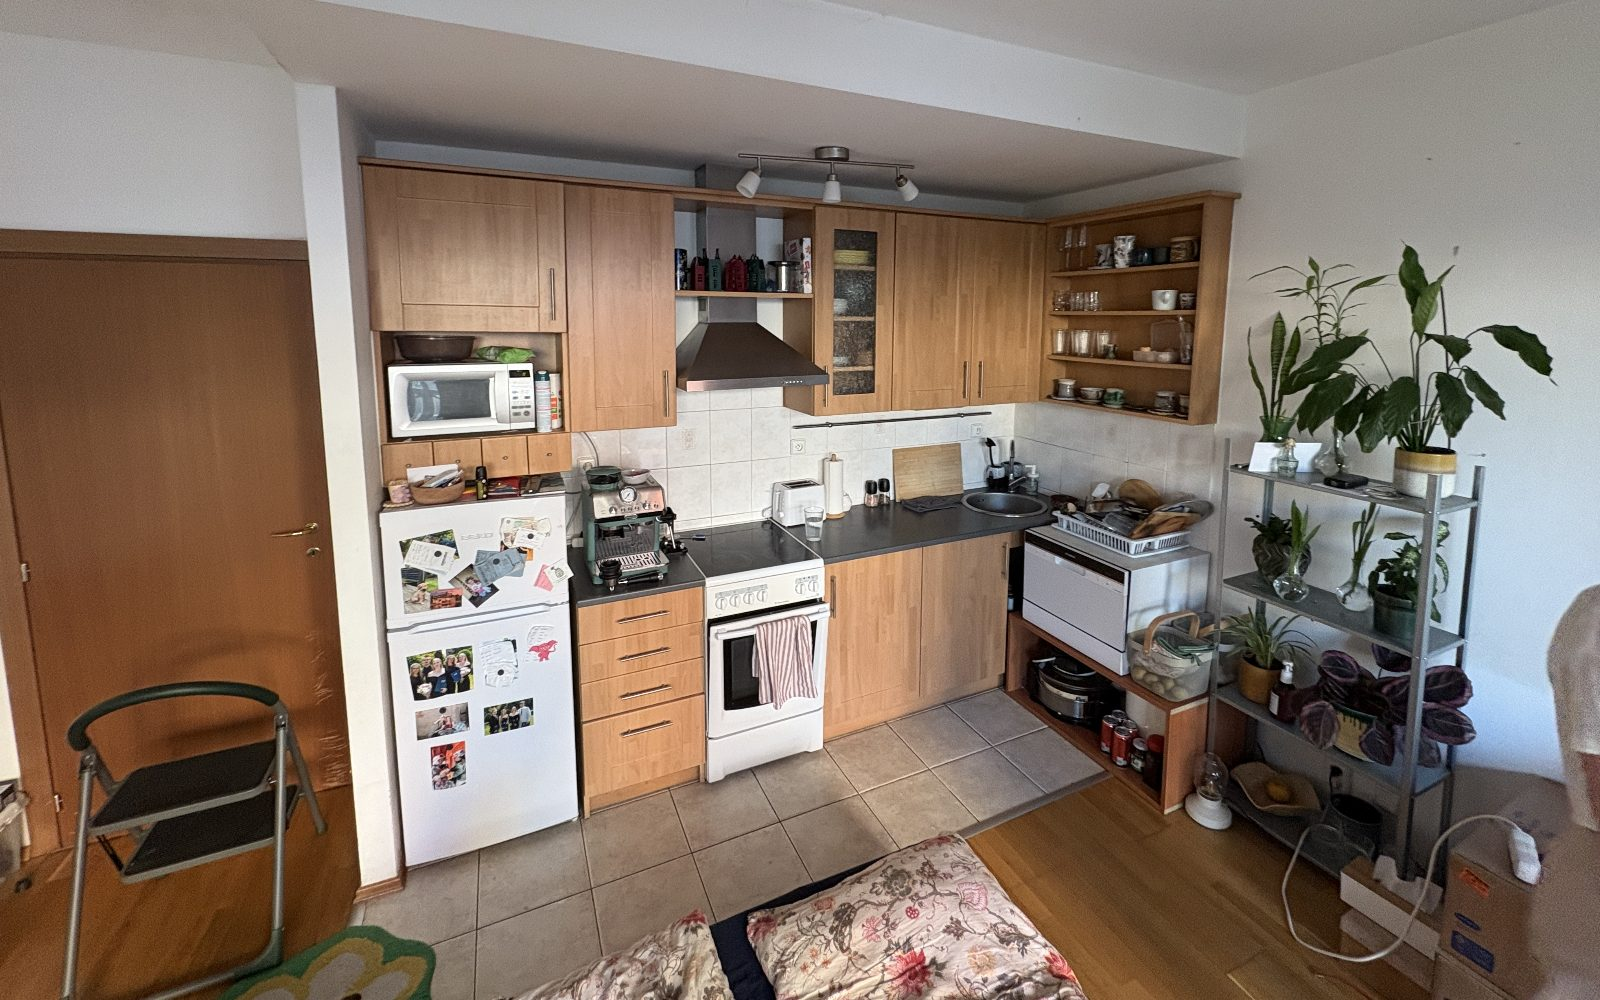
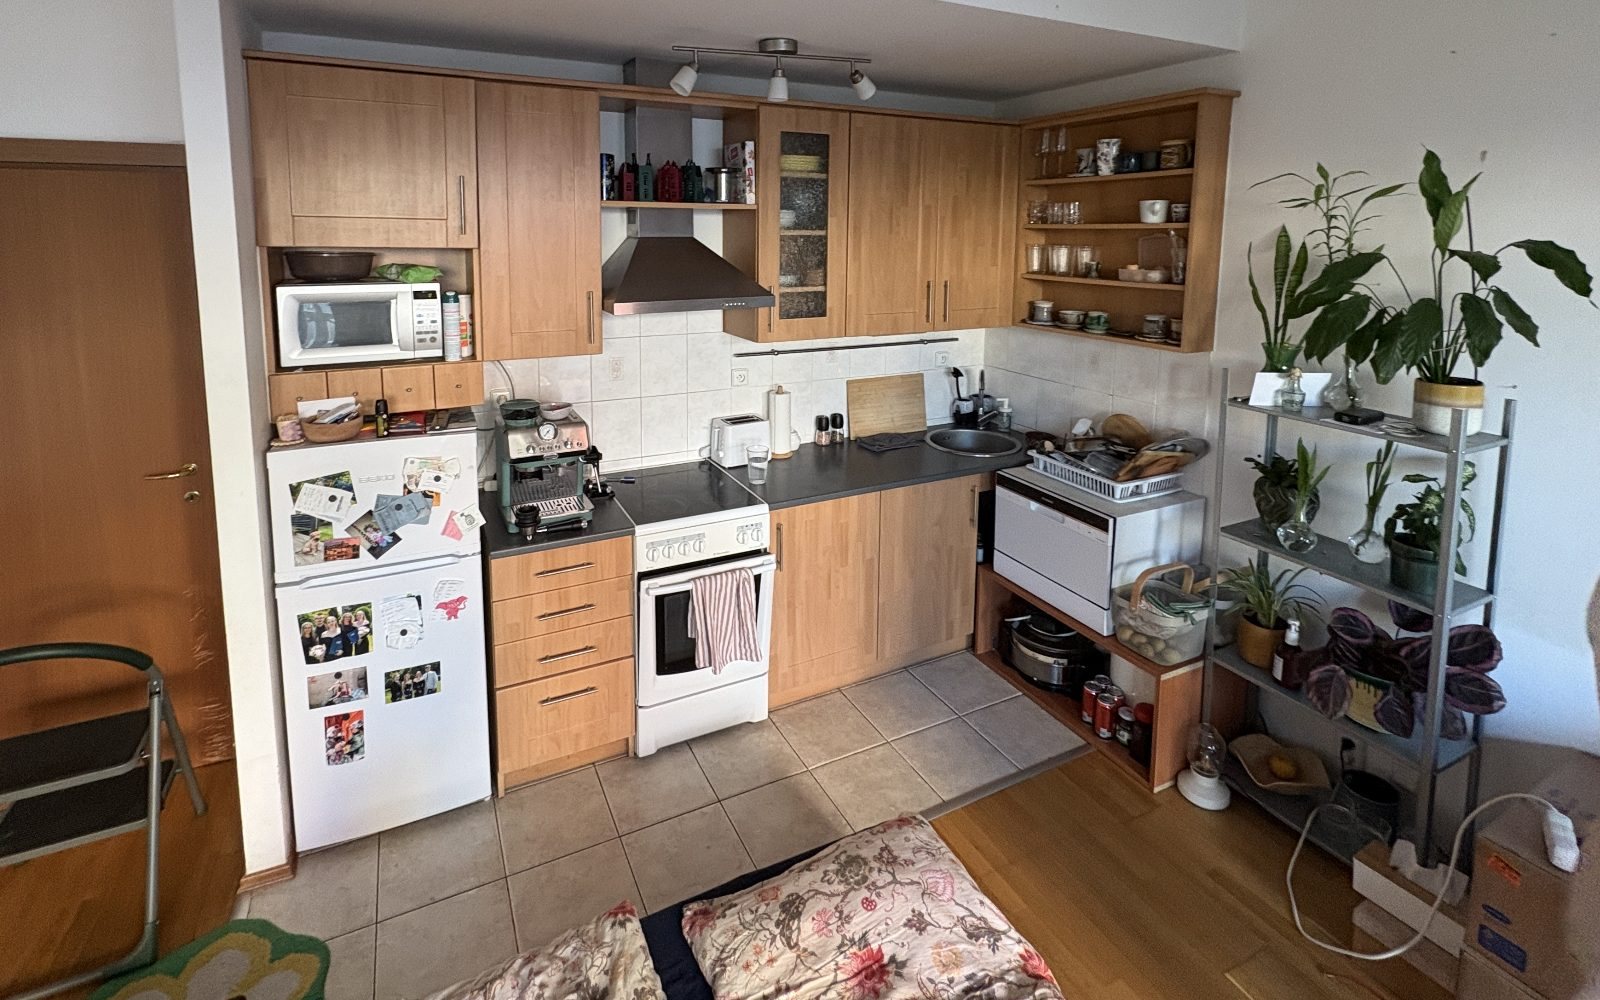
Podbaba: fotky hotové kuchyně, nové sesazené Před/Po, aktualizace úvodu a galerie
Claude-Session: https://claude.ai/code/session_017uKyLgyJ8ePrr6G917Pn4H

diff --git a/galerie.html b/galerie.html
@@ -11,7 +11,7 @@
     <meta property="og:url" content="https://owax.cz/galerie.html">
     <meta property="og:title" content="Galerie | OWAX">
     <meta property="og:description" content="Fotogalerie OWAX – fotky z našich realizací a projektů.">
-    <meta property="og:image" content="https://owax.cz/foto/podbaba-kuchyne.jpg">
+    <meta property="og:image" content="https://owax.cz/foto/podbaba-hotovo-6.jpg">
     <meta property="og:locale" content="cs_CZ">
 
     <link rel="icon" type="image/png" href="favicon.png">
@@ -2680,7 +2680,12 @@ header.scrolled .logo-img {
                     <button class="gallery-item"><img src="foto/podbaba-prubeh-6.jpg" alt="Rekonstrukce bytu, Praha 6 – Podbaba: Vyštukované a vymalované stěny s připravenými vývody pro kuchyň" loading="lazy" onerror="this.parentElement.remove()"><span class="gallery-caption">7. Hotové stěny a vývody pro kuchyň</span></button>
                     <button class="gallery-item"><img src="foto/podbaba-prubeh-7.jpg" alt="Rekonstrukce bytu, Praha 6 – Podbaba: Obývací část bytu po vymalování" loading="lazy" onerror="this.parentElement.remove()"><span class="gallery-caption">8. Obývací část po malování</span></button>
                     <button class="gallery-item"><img src="foto/podbaba-prubeh-8.jpg" alt="Rekonstrukce bytu, Praha 6 – Podbaba: Pohled od vstupu – prostor připravený pro montáž kuchyňské linky" loading="lazy" onerror="this.parentElement.remove()"><span class="gallery-caption">9. Připraveno pro montáž kuchyně</span></button>
-                    <button class="gallery-item"><img src="foto/podbaba-kuchyne.jpg" alt="Rekonstrukce bytu, Praha 6 – Podbaba: Montáž nové kuchyňské linky" loading="lazy" onerror="this.parentElement.remove()"><span class="gallery-caption">10. Montáž kuchyňské linky</span></button>
+                    <button class="gallery-item"><img src="foto/podbaba-hotovo-1.jpg" alt="Rekonstrukce bytu, Praha 6 – Podbaba: Hotová kuchyň – pohled od obývacího pokoje" loading="lazy" onerror="this.parentElement.remove()"><span class="gallery-caption">Hotová kuchyň</span></button>
+                    <button class="gallery-item"><img src="foto/podbaba-hotovo-2.jpg" alt="Rekonstrukce bytu, Praha 6 – Podbaba: Obklad, pracovní deska a varná deska" loading="lazy" onerror="this.parentElement.remove()"><span class="gallery-caption">Obklad a pracovní deska</span></button>
+                    <button class="gallery-item"><img src="foto/podbaba-hotovo-3.jpg" alt="Rekonstrukce bytu, Praha 6 – Podbaba: Dřez, baterie a vestavné spotřebiče" loading="lazy" onerror="this.parentElement.remove()"><span class="gallery-caption">Dřez a spotřebiče</span></button>
+                    <button class="gallery-item"><img src="foto/podbaba-hotovo-4.jpg" alt="Rekonstrukce bytu, Praha 6 – Podbaba: Kuchyňská linka s vysokými skříněmi a velkoformátovou dlažbou" loading="lazy" onerror="this.parentElement.remove()"><span class="gallery-caption">Linka a dlažba</span></button>
+                    <button class="gallery-item"><img src="foto/podbaba-hotovo-5.jpg" alt="Rekonstrukce bytu, Praha 6 – Podbaba: Detail rohu s obkladem a digestoří" loading="lazy" onerror="this.parentElement.remove()"><span class="gallery-caption">Detail rohu</span></button>
+                    <button class="gallery-item"><img src="foto/podbaba-hotovo-6.jpg" alt="Rekonstrukce bytu, Praha 6 – Podbaba: Celkový pohled na hotovou kuchyň" loading="lazy" onerror="this.parentElement.remove()"><span class="gallery-caption">Celkový pohled</span></button>
                     <button class="gallery-item"><img src="Po.JPEG" alt="Rekonstrukce bytu, Praha 6 – Podbaba (po)" loading="lazy" onerror="this.parentElement.remove()"><span class="gallery-caption">Po – montáž kuchyně</span></button>
             </div>
         </div>

diff --git a/zakazka-byt-podbaba.html b/zakazka-byt-podbaba.html
@@ -2797,15 +2797,32 @@ header.scrolled .logo-img {
             <li class="timeline-step final" style="--dx: 8px">
                 <span class="timeline-num done"><i class="fa-solid fa-check"></i></span>
                 <div class="timeline-card">
-                    <button class="gallery-item"><img src="foto/podbaba-kuchyne.jpg" alt="Rekonstrukce bytu, Praha 6 – Podbaba: Montáž nové kuchyňské linky" loading="lazy" onerror="this.parentElement.remove()"></button>
+                    <button class="gallery-item"><img src="foto/podbaba-hotovo-6.jpg" alt="Rekonstrukce bytu, Praha 6 – Podbaba: Celkový pohled na hotovou kuchyň" loading="lazy" onerror="this.parentElement.remove()"></button>
                     <div class="timeline-body">
                         <span class="timeline-phase">Výsledek</span>
                         <h3>Montáž kuchyně a předání bytu</h3>
-                        <p>Na připravené vývody a novou dlažbu navázala montáž kuchyňské linky. Na fotce je ještě s ochrannými fóliemi a před osazením pracovní desky. Jak se byt proměnil, ukazuje <a href="#ba-slider">posuvník Před a po</a> výše.</p>
+                        <p>Na připravené vývody a novou dlažbu navázala montáž kuchyňské linky, pracovní desky a obkladu. Byt jsme předali uklizený a připravený k bydlení. Jak se proměnil, ukazuje <a href="#ba-slider">posuvník Před a po</a> výše.</p>
                     </div>
                 </div>
             </li>
         </ol>
+
+        <!-- HOTOVÁ KUCHYŇ -->
+        <div class="section-header reveal">
+            <span class="section-subtitle">Výsledek</span>
+            <h2 class="section-title">Hotová kuchyň</h2>
+        </div>
+
+        <div class="gallery-album reveal">
+            <div class="gallery-grid">
+                <button class="gallery-item"><img src="foto/podbaba-hotovo-6.jpg" alt="Rekonstrukce bytu, Praha 6 – Podbaba: Celkový pohled na hotovou kuchyň" loading="lazy" onerror="this.parentElement.remove()"><span class="gallery-caption">Celkový pohled</span></button>
+                <button class="gallery-item"><img src="foto/podbaba-hotovo-1.jpg" alt="Rekonstrukce bytu, Praha 6 – Podbaba: Hotová kuchyň – pohled od obývacího pokoje" loading="lazy" onerror="this.parentElement.remove()"><span class="gallery-caption">Hotová kuchyň</span></button>
+                <button class="gallery-item"><img src="foto/podbaba-hotovo-3.jpg" alt="Rekonstrukce bytu, Praha 6 – Podbaba: Dřez, baterie a vestavné spotřebiče" loading="lazy" onerror="this.parentElement.remove()"><span class="gallery-caption">Dřez a spotřebiče</span></button>
+                <button class="gallery-item"><img src="foto/podbaba-hotovo-2.jpg" alt="Rekonstrukce bytu, Praha 6 – Podbaba: Obklad, pracovní deska a varná deska" loading="lazy" onerror="this.parentElement.remove()"><span class="gallery-caption">Obklad a pracovní deska</span></button>
+                <button class="gallery-item"><img src="foto/podbaba-hotovo-4.jpg" alt="Rekonstrukce bytu, Praha 6 – Podbaba: Kuchyňská linka s vysokými skříněmi a velkoformátovou dlažbou" loading="lazy" onerror="this.parentElement.remove()"><span class="gallery-caption">Linka a dlažba</span></button>
+                <button class="gallery-item"><img src="foto/podbaba-hotovo-5.jpg" alt="Rekonstrukce bytu, Praha 6 – Podbaba: Detail rohu s obkladem a digestoří" loading="lazy" onerror="this.parentElement.remove()"><span class="gallery-caption">Detail rohu</span></button>
+            </div>
+        </div>
 
         <div style="margin: 0 var(--side) clamp(2.5rem, 4vw, 4.5rem);">
             <a href="reference.html#realizace" class="back-link"><i class="fa-solid fa-arrow-left"></i> Zpět na všechny reference</a>

diff --git a/index.html b/index.html
@@ -12,7 +12,7 @@
     <meta property="og:url" content="https://owax.cz/">
     <meta property="og:title" content="OWAX | Rekonstrukce, projekce a stavební poradenství">
     <meta property="og:description" content="Tým stavebních inženýrů z ČVUT. Rekonstrukce bytů a domů, novostavby, projekční činnost, rozpočty a koordinace stavby v Praze a Středočeském kraji.">
-    <meta property="og:image" content="https://owax.cz/foto/podbaba-kuchyne.jpg">
+    <meta property="og:image" content="https://owax.cz/foto/podbaba-hotovo-6.jpg">
 
     <link rel="icon" type="image/png" href="favicon.png">
     <link rel="apple-touch-icon" href="apple-touch-icon.png">
@@ -2579,7 +2579,7 @@ header.scrolled .logo-img {
     "name": "OWAX",
     "url": "https://owax.cz/",
     "logo": "https://owax.cz/logo.png",
-    "image": "https://owax.cz/foto/podbaba-kuchyne.jpg",
+    "image": "https://owax.cz/foto/podbaba-hotovo-6.jpg",
     "description": "Rekonstrukce bytů a domů, novostavby, projekční činnost, rozpočty a koordinace stavby v Praze a Středočeském kraji.",
     "telephone": "+420723557807",
     "email": "info@owax.cz",
@@ -2659,8 +2659,10 @@ header.scrolled .logo-img {
              Novou fotku přidáte zkopírováním řádku <div class="hero-slide" data-bg="...">.
              data-duration = jak dlouho se ukazuje (v milisekundách). -->
         <div class="hero-slides" aria-hidden="true">
-            <div class="hero-slide" style="background-image: url('foto/podbaba-kuchyne.jpg');" data-bg="foto/podbaba-kuchyne.jpg"></div>
+            <div class="hero-slide" style="background-image: url('foto/podbaba-hotovo-6.jpg');" data-bg="foto/podbaba-hotovo-6.jpg"></div>
+            <div class="hero-slide" data-bg="foto/podbaba-hotovo-3.jpg"></div>
             <div class="hero-slide" data-bg="foto/stricha-1.jpg"></div>
+            <div class="hero-slide" data-bg="foto/podbaba-hotovo-2.jpg"></div>
             <div class="hero-slide" data-bg="foto/podbaba-prubeh-5.jpg"></div>
             <div class="hero-slide" data-bg="foto/podbaba-prubeh-4.jpg"></div>
             <div class="hero-slide" data-bg="foto/podbaba-prubeh-6.jpg"></div>
